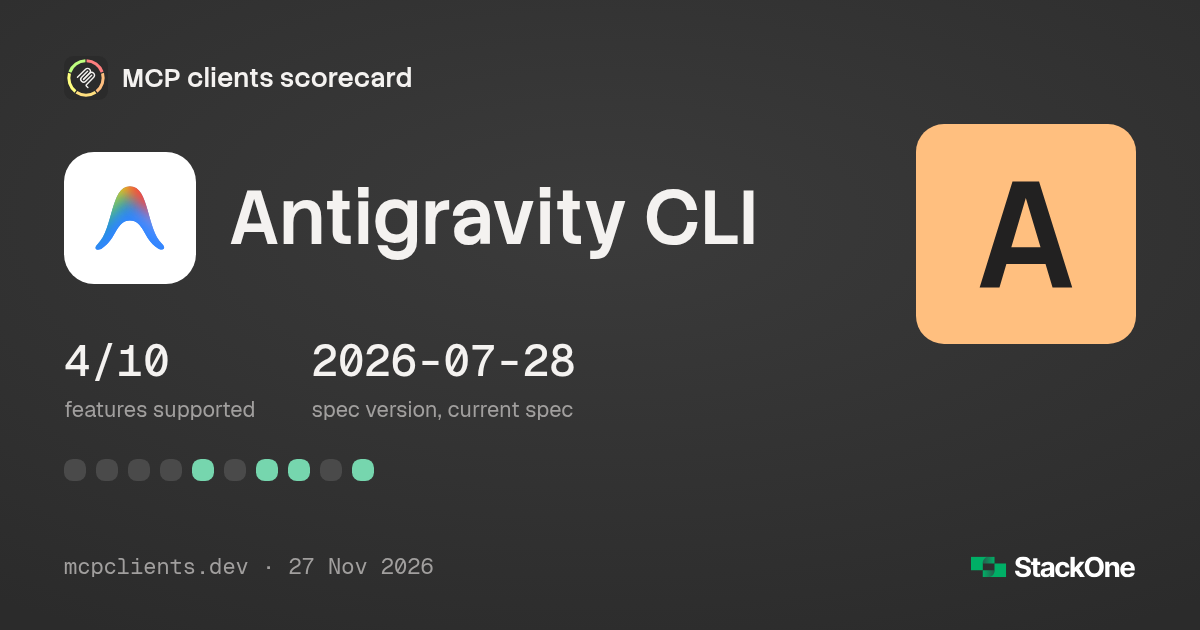
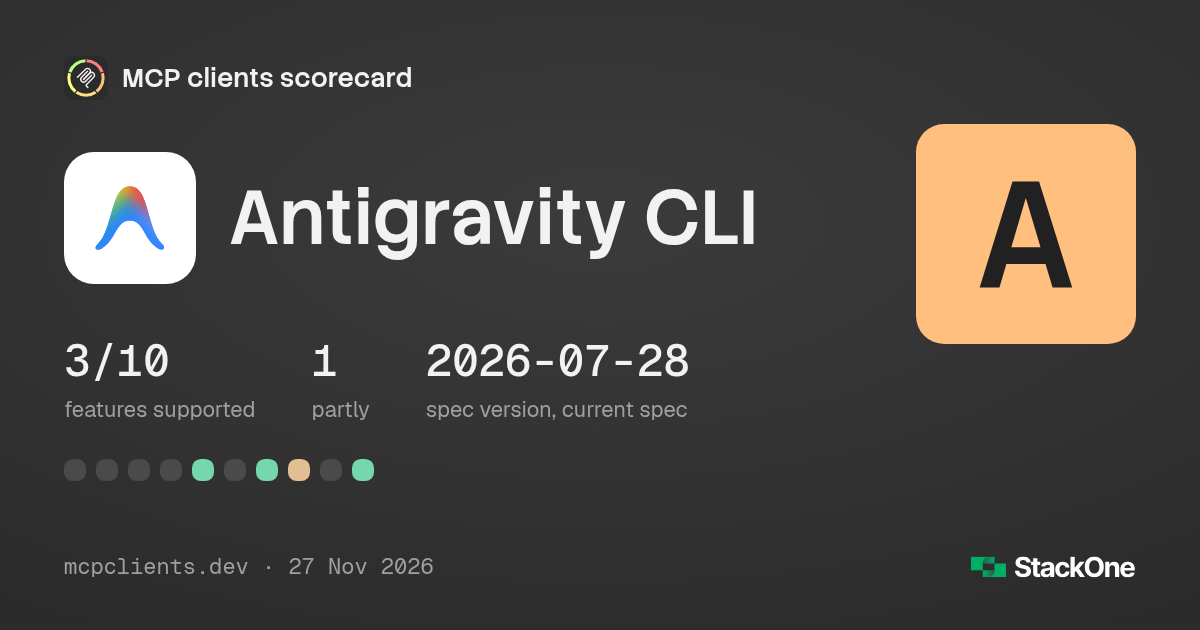
data(antigravity-cli): live tool lists partial (5 of 11 runs); probe download timeouts; probe docs

diff --git a/README.md b/README.md
@@ -175,9 +175,9 @@ As of 27 Nov 2026. Click any cell for its source, or a client name for the full 
 | **A** | [OpenClaw](EVIDENCE.md#openclaw) [↗](https://openclaw.ai) | `2026.11.7` | [42% of 345](https://github.com/openclaw/openclaw/issues) | [![one version behind](assets/icons/spec-behind.svg) 2025-11-25](https://github.com/openclaw/openclaw/blob/e31bbf056de321127988ec5c1a36ff1b59297de0/src/agents/agent-bundle-mcp-runtime.ts#L357) | [![yes](assets/icons/y.svg)](https://docs.openclaw.ai/cli/mcp/apps) | [![no](assets/icons/n.svg)](https://github.com/openclaw/openclaw/tree/e31bbf056de321127988ec5c1a36ff1b59297de0/src/agents) | [![partial](assets/icons/p.svg)](https://docs.openclaw.ai/automation/mcp-events) | [![no](assets/icons/n.svg)](https://docs.openclaw.ai/cli/mcp) | [![partial](assets/icons/p.svg)](https://github.com/openclaw/openclaw/blob/e31bbf056de321127988ec5c1a36ff1b59297de0/src/agents/mcp-oauth-provider.ts#L167) | [![no](assets/icons/n.svg)](https://github.com/openclaw/openclaw/tree/e31bbf056de321127988ec5c1a36ff1b59297de0/src/agents) | [![partial](assets/icons/p.svg)](https://github.com/openclaw/openclaw/blob/e31bbf056de321127988ec5c1a36ff1b59297de0/src/agents/mcp-metadata.ts#L12) | [![yes](assets/icons/y.svg)](https://github.com/openclaw/openclaw/blob/e31bbf056de321127988ec5c1a36ff1b59297de0/src/agents/agent-bundle-mcp-runtime.ts#L363) | [![partial](assets/icons/p.svg)](https://docs.openclaw.ai/tools/code-mode) | [![yes](assets/icons/y.svg) BM25](https://github.com/openclaw/openclaw/blob/e31bbf056de321127988ec5c1a36ff1b59297de0/src/agents/tool-search-ranking.ts#L371) |
 | **A** | [Copilot CLI](EVIDENCE.md#copilot-cli) [↗](https://github.com/features/copilot) | `1.0.117` | [43% of 157](https://github.com/github/copilot-cli/issues) | [![current spec](assets/icons/spec-current.svg) 2026-07-28](https://github.com/github/copilot-cli/blob/main/changelog.md) | [![not applicable](assets/icons/na.svg)](https://github.com/github/copilot-cli/blob/main/changelog.md) | [![partial](assets/icons/p.svg)](https://github.com/github/copilot-cli/blob/main/changelog.md) | [![no](assets/icons/n.svg)](https://registry.npmjs.org/@github/copilot-linux-x64/1.0.112) | [![no](assets/icons/n.svg)](https://github.com/github/copilot-cli/blob/main/changelog.md) | [![yes](assets/icons/y.svg)](https://github.com/github/copilot-cli/blob/main/changelog.md) | [![no](assets/icons/n.svg)](https://registry.npmjs.org/@github/copilot-linux-x64/1.0.112) | [![yes](assets/icons/y.svg)](https://github.com/github/copilot-cli/blob/main/changelog.md) | [![yes](assets/icons/y.svg)](https://github.com/github/copilot-cli/blob/84ee80ea6490ce02d6000439356a609fcefbb9ae/changelog.md#L454) | [![no](assets/icons/n.svg)](https://github.com/github/copilot-cli/blob/main/changelog.md) | [![yes](assets/icons/y.svg) Hosted](https://registry.npmjs.org/@github/copilot-linux-x64/1.0.112) |
 | **A** | [Amp](EVIDENCE.md#amp) [↗](https://ampcode.com) | `0.0.1795334436-g660843` | no public tracker | [![current spec](assets/icons/spec-current.svg) 2026-07-28 (falls back to 2025-11-25)](https://ampcode.com/docs/customize/mcp) | [![yes](assets/icons/y.svg)](https://ampcode.com/docs/customize/mcp) | [![no](assets/icons/n.svg)](https://ampcode.com/docs/customize/mcp) | [![no](assets/icons/n.svg)](https://ampcode.com/docs/customize/mcp) | [![no](assets/icons/n.svg)](https://ampcode.com/manual) | [![yes](assets/icons/y.svg)](https://ampcode.com/docs/customize/mcp) | [![no](assets/icons/n.svg)](https://ampcode.com/docs/customize/mcp) | [![yes](assets/icons/y.svg)](https://ampcode.com/docs/customize/mcp) | [![no](assets/icons/n.svg)](https://ampcode.com/docs/customize/mcp) | [![partial](assets/icons/p.svg)](https://ampcode.com/docs/customize/mcp) | [![partial](assets/icons/p.svg)](https://ampcode.com/docs/customize/mcp) |
-| **A** | [Antigravity CLI](EVIDENCE.md#antigravity-cli) [↗](https://antigravity.google/product/antigravity-cli) | `1.5.18` | no public tracker | [![current spec](assets/icons/spec-current.svg) 2026-07-28](https://storage.googleapis.com/antigravity-public/antigravity-cli/1.5.18-6386224290725888/linux-x64/cli_linux_x64.tar.gz) | [![not applicable](assets/icons/na.svg)](https://antigravity.google/docs/mcp?tab=cli) | [![no](assets/icons/n.svg)](https://storage.googleapis.com/antigravity-public/antigravity-cli/1.5.18-6386224290725888/linux-x64/cli_linux_x64.tar.gz) | [![no](assets/icons/n.svg)](https://storage.googleapis.com/antigravity-public/antigravity-cli/1.5.18-6386224290725888/linux-x64/cli_linux_x64.tar.gz) | [![no](assets/icons/n.svg)](https://antigravity.google/docs/skills) | [![yes](assets/icons/y.svg)](https://antigravity.google/docs/mcp) | [![no](assets/icons/n.svg)](https://storage.googleapis.com/antigravity-public/antigravity-cli/1.5.18-6386224290725888/linux-x64/cli_linux_x64.tar.gz) | [![yes](assets/icons/y.svg)](https://storage.googleapis.com/antigravity-public/antigravity-cli/1.5.18-6386224290725888/linux-x64/cli_linux_x64.tar.gz) | [![yes](assets/icons/y.svg)](https://storage.googleapis.com/antigravity-public/antigravity-cli/1.5.18-6386224290725888/linux-x64/cli_linux_x64.tar.gz) | [![no](assets/icons/n.svg)](https://antigravity.google/docs/dynamic-workflows) | [![yes](assets/icons/y.svg) Files](https://antigravity.google/docs/cli/mcp) |
 | **A** | [Hermes Agent](EVIDENCE.md#hermes-agent) [↗](https://hermes-agent.nousresearch.com) | `0.23.3` | [29% of 661](https://github.com/NousResearch/hermes-agent/issues) | [![current spec](assets/icons/spec-current.svg) 2026-07-28 (falls back to 2025-11-25)](https://github.com/NousResearch/hermes-agent/blob/caafe5389ae585ef77387a962aee05b1bcf17029/tools/mcp_tool_transport.py#L229) | [![not applicable](assets/icons/na.svg)](https://github.com/NousResearch/hermes-agent/tree/caafe5389ae585ef77387a962aee05b1bcf17029/tools) | [![no](assets/icons/n.svg)](https://github.com/NousResearch/hermes-agent/tree/caafe5389ae585ef77387a962aee05b1bcf17029/tools) | [![partial](assets/icons/p.svg)](https://github.com/NousResearch/hermes-agent/blob/caafe5389ae585ef77387a962aee05b1bcf17029/website/docs/user-guide/features/mcp.md#L1038) | [![no](assets/icons/n.svg)](https://github.com/NousResearch/hermes-agent/pull/137746) | [![yes](assets/icons/y.svg)](https://github.com/NousResearch/hermes-agent/blob/caafe5389ae585ef77387a962aee05b1bcf17029/website/docs/user-guide/features/mcp.md#L354) | [![no](assets/icons/n.svg)](https://github.com/NousResearch/hermes-agent/tree/caafe5389ae585ef77387a962aee05b1bcf17029/tools) | [![partial](assets/icons/p.svg)](https://github.com/NousResearch/hermes-agent/blob/caafe5389ae585ef77387a962aee05b1bcf17029/website/docs/user-guide/features/mcp.md#L1023) | [![yes](assets/icons/y.svg)](https://github.com/NousResearch/hermes-agent/blob/caafe5389ae585ef77387a962aee05b1bcf17029/tools/mcp_tool_health.py#L109) | [![no](assets/icons/n.svg)](https://github.com/NousResearch/hermes-agent/blob/caafe5389ae585ef77387a962aee05b1bcf17029/website/docs/user-guide/features/code-execution.md#L153) | [![yes](assets/icons/y.svg) BM25 search](https://github.com/NousResearch/hermes-agent/blob/caafe5389ae585ef77387a962aee05b1bcf17029/website/docs/user-guide/features/tool-search.md#L133) |
 | **A** | [Pi](EVIDENCE.md#pi) [↗](https://pi.dev) | `1.6.0` | [31% of 107](https://github.com/earendil-works/pi/issues) | [![one version behind](assets/icons/spec-behind.svg) 2025-11-25](https://registry.npmjs.org/@earendil-works/pi-coding-agent/1.4.0) | [![not applicable](assets/icons/na.svg)](https://github.com/earendil-works/pi/blob/4a080252f06caf63a525d7873c5d94d3c23887e0/packages/coding-agent/docs/mcp.md#L246) | [![no](assets/icons/n.svg)](https://registry.npmjs.org/@earendil-works/pi-coding-agent/1.4.0) | [![no](assets/icons/n.svg)](https://github.com/earendil-works/pi/tree/4a080252f06caf63a525d7873c5d94d3c23887e0/packages/mcp/src) | [![no](assets/icons/n.svg)](https://github.com/earendil-works/pi/blob/44b6a1367b6000a458f96fb98b44375606fadf67/packages/mcp/README.md) | [![yes](assets/icons/y.svg)](https://github.com/earendil-works/pi/blob/4a080252f06caf63a525d7873c5d94d3c23887e0/packages/coding-agent/docs/mcp.md#L162) | [![no](assets/icons/n.svg)](https://github.com/earendil-works/pi/tree/4a080252f06caf63a525d7873c5d94d3c23887e0/packages/mcp/src) | [![no](assets/icons/n.svg)](https://registry.npmjs.org/@earendil-works/pi-coding-agent/1.4.0) | [![yes](assets/icons/y.svg)](https://github.com/earendil-works/pi/blob/v1.4.0/packages/coding-agent/src/extensions/mcp/runtime.ts#L380-L382) | [![yes](assets/icons/y.svg)](https://github.com/earendil-works/pi/blob/4a080252f06caf63a525d7873c5d94d3c23887e0/packages/coding-agent/docs/mcp.md#L195) | [![yes](assets/icons/y.svg) BM25](https://github.com/earendil-works/pi/blob/4a080252f06caf63a525d7873c5d94d3c23887e0/packages/coding-agent/src/extensions/tool-search/tool.ts#L118) |
+| **A** | [Antigravity CLI](EVIDENCE.md#antigravity-cli) [↗](https://antigravity.google/product/antigravity-cli) | `1.5.18` | no public tracker | [![current spec](assets/icons/spec-current.svg) 2026-07-28](https://storage.googleapis.com/antigravity-public/antigravity-cli/1.5.18-6386224290725888/linux-x64/cli_linux_x64.tar.gz) | [![not applicable](assets/icons/na.svg)](https://antigravity.google/docs/mcp?tab=cli) | [![no](assets/icons/n.svg)](https://storage.googleapis.com/antigravity-public/antigravity-cli/1.5.18-6386224290725888/linux-x64/cli_linux_x64.tar.gz) | [![no](assets/icons/n.svg)](https://storage.googleapis.com/antigravity-public/antigravity-cli/1.5.18-6386224290725888/linux-x64/cli_linux_x64.tar.gz) | [![no](assets/icons/n.svg)](https://antigravity.google/docs/skills) | [![yes](assets/icons/y.svg)](https://antigravity.google/docs/mcp) | [![no](assets/icons/n.svg)](https://storage.googleapis.com/antigravity-public/antigravity-cli/1.5.18-6386224290725888/linux-x64/cli_linux_x64.tar.gz) | [![yes](assets/icons/y.svg)](https://storage.googleapis.com/antigravity-public/antigravity-cli/1.5.18-6386224290725888/linux-x64/cli_linux_x64.tar.gz) | [![partial](assets/icons/p.svg)](https://storage.googleapis.com/antigravity-public/antigravity-cli/1.5.18-6386224290725888/linux-x64/cli_linux_x64.tar.gz) | [![no](assets/icons/n.svg)](https://antigravity.google/docs/dynamic-workflows) | [![yes](assets/icons/y.svg) Files](https://antigravity.google/docs/cli/mcp) |
 | **A** | [Droid](EVIDENCE.md#droid) [↗](https://factory.com) | `1.21.1` | [too few issues](https://github.com/Factory-AI/factory/issues) | [![one version behind](assets/icons/spec-behind.svg) 2025-11-25](https://registry.npmjs.org/@factory/cli-linux-x64/1.21.1) | [![not applicable](assets/icons/na.svg)](https://registry.npmjs.org/@factory/cli-linux-x64/1.12.1) | [![no](assets/icons/n.svg)](https://registry.npmjs.org/@factory/cli-linux-x64/1.12.1) | [![no](assets/icons/n.svg)](https://registry.npmjs.org/@factory/cli-linux-x64/1.12.1) | [![no](assets/icons/n.svg)](https://docs.factory.ai/cli/configuration/mcp) | [![yes](assets/icons/y.svg)](https://docs.factory.com/harness/mcp) | [![no](assets/icons/n.svg)](https://registry.npmjs.org/@factory/cli-linux-x64/1.12.1) | [![no](assets/icons/n.svg)](https://registry.npmjs.org/@factory/cli-linux-x64/1.12.1) | [![yes](assets/icons/y.svg)](https://registry.npmjs.org/@factory/cli-linux-x64/1.12.1) | [![partial](assets/icons/p.svg)](https://registry.npmjs.org/@factory/cli-linux-x64/1.12.1) | [![yes](assets/icons/y.svg) Keyword](https://registry.npmjs.org/@factory/cli-linux-x64/1.12.1) |
 | **B** | [Grok Build](EVIDENCE.md#grok-build) [↗](https://x.ai/build) | `1.0.77` | no public tracker | [![one version behind](assets/icons/spec-behind.svg) 2025-11-25](https://x.ai/cli/grok-1.0.77-linux-x86_64) | [![not applicable](assets/icons/na.svg)](https://x.ai/cli/grok-1.0.77-linux-x86_64) | [![no](assets/icons/n.svg)](https://x.ai/cli/grok-1.0.77-linux-x86_64) | [![no](assets/icons/n.svg)](https://x.ai/cli/grok-1.0.77-linux-x86_64) | [![no](assets/icons/n.svg)](https://docs.x.ai/build/features/mcp-servers) | [![no](assets/icons/n.svg)](https://docs.x.ai/build/features/mcp-servers) | [![no](assets/icons/n.svg)](https://x.ai/cli/grok-1.0.77-linux-x86_64) | [![yes](assets/icons/y.svg)](https://github.com/xai-org/grok-build/blob/2bdd1d6a6369de0e8c68132ea4539e9abd9e14a8/crates/codegen/xai-grok-shell/changelogs/1.0.8.md) | [![no](assets/icons/n.svg)](https://x.ai/cli/grok-1.0.77-linux-x86_64) | [![no](assets/icons/n.svg)](https://x.ai/cli/grok-1.0.77-linux-x86_64) | [![yes](assets/icons/y.svg) Deferred](https://x.ai/cli/grok-1.0.77-linux-x86_64) |
 | **B** | [opencode](EVIDENCE.md#opencode) [↗](https://opencode.ai) | `1.19.6` | [22% of 386](https://github.com/anomalyco/opencode/issues) | [![one version behind](assets/icons/spec-behind.svg) 2025-11-25](https://github.com/anomalyco/opencode/blob/810c0eba1a7348036f8bdf61e6632d0c36c6876c/packages/opencode/src/mcp/index.ts#L39) | [![not applicable](assets/icons/na.svg)](https://github.com/anomalyco/opencode/blob/810c0eba1a7348036f8bdf61e6632d0c36c6876c/packages/opencode/src/mcp/index.ts#L39) | [![no](assets/icons/n.svg)](https://github.com/anomalyco/opencode/blob/810c0eba1a7348036f8bdf61e6632d0c36c6876c/packages/opencode/src/mcp/index.ts#L47) | [![no](assets/icons/n.svg)](https://github.com/anomalyco/opencode/tree/810c0eba1a7348036f8bdf61e6632d0c36c6876c/packages/opencode/src/mcp) | [![no](assets/icons/n.svg)](https://github.com/anomalyco/opencode/pull/66201) | [![no](assets/icons/n.svg)](https://github.com/anomalyco/opencode/blob/810c0eba1a7348036f8bdf61e6632d0c36c6876c/packages/opencode/src/mcp/index.ts#L301) | [![no](assets/icons/n.svg)](https://github.com/anomalyco/opencode/tree/810c0eba1a7348036f8bdf61e6632d0c36c6876c/packages/opencode/src/mcp) | [![no](assets/icons/n.svg)](https://github.com/anomalyco/opencode/blob/810c0eba1a7348036f8bdf61e6632d0c36c6876c/packages/opencode/src/mcp/index.ts#L44) | [![yes](assets/icons/y.svg)](https://github.com/anomalyco/opencode/blob/v1.19.5/packages/opencode/src/mcp/index.ts#L461-L471) | [![partial](assets/icons/p.svg)](https://github.com/anomalyco/opencode/blob/810c0eba1a7348036f8bdf61e6632d0c36c6876c/packages/opencode/src/effect/runtime-flags.ts#L48) | [![partial](assets/icons/p.svg)](https://github.com/anomalyco/opencode/blob/810c0eba1a7348036f8bdf61e6632d0c36c6876c/packages/codemode/src/tool-runtime.ts#L411) |
@@ -252,7 +252,7 @@ Code mode and Tool search are marked harness: they are how the client handles to
 | CIMD | 16 | 1 | 14 | 0 |
 | ID-JAG | 4 | 1 | 26 | 0 |
 | Elicitation | 10 | 5 | 16 | 0 |
-| Live tool lists | 16 | 2 | 13 | 0 |
+| Live tool lists | 15 | 3 | 13 | 0 |
 | Code mode <sub>harness</sub> | 2 | 8 | 21 | 0 |
 | Tool search <sub>harness</sub> | 18 | 5 | 8 | 0 |
 <!-- features:end -->

diff --git a/EVIDENCE.md b/EVIDENCE.md
@@ -86,26 +86,6 @@ Tier **A** · CLI · version checked `0.0.1795334436-g660843` · MCP bugs fixed:
 | Code mode | [![partial](assets/icons/p.svg)](https://ampcode.com/docs/customize/mcp) | Docs: agents call saved remote MCP tools by **writing code for the `code_exec` tool**, so code mode is partial.<br>• Definitions of the saved remote tools are stored on ampcode.com.<br>• The code imports the server as a module.<br>• Servers in local `amp.mcpServers` use different rules, so this is one of two modes. | docs | 2026-11-22 |  |
 | Tool search | [![partial](assets/icons/p.svg)](https://ampcode.com/docs/customize/mcp) | Docs: `tool_search` lists each saved remote MCP server as a **module** and discovers its tools on demand.<br>• Discovery includes the return types of the tools.<br>• The *Efficient MCP Tool Loading* post (2026-01-08) covers skill-bundled MCP servers that load only when a skill is invoked.<br>• Local `amp.mcpServers` entries are *not* described as deferred.<br>• The docs do not say how `tool_search` ranks results. | docs | 2026-11-22 |  |
 
-## Antigravity CLI
-
-Tier **A** · CLI · version checked `1.5.18` · MCP bugs fixed: no public tracker
-
-[website](https://antigravity.google/product/antigravity-cli) · [docs](https://antigravity.google/docs/cli/mcp) · [data file](data/clients/antigravity-cli.yaml)
-
-| Feature | Value | Evidence | Method | Checked | Shipped |
-| --- | --- | --- | --- | --- | --- |
-| Spec version | [![current spec](assets/icons/spec-current.svg) 2026-07-28](https://storage.googleapis.com/antigravity-public/antigravity-cli/1.5.18-6386224290725888/linux-x64/cli_linux_x64.tar.gz) | Own probe of `agy` 1.5.18: it **opened with `server/discover` on 2026-07-28** and stayed on it.<br>• Ran the linux-x64 build from the installer's manifest (sha512 checked) with a local stdio server in `~/.gemini/config/mcp_config.json`.<br>• The request carried `io.modelcontextprotocol/protocolVersion` 2026-07-28 and `clientInfo` `antigravity-client`.<br>• It connected before sign-in, then sent `tools/list` and `subscriptions/listen` on 2026-07-28.<br>• Docs and changelog name no revision. | probe | 2026-11-27 |  |
-| MCP Apps | [![not applicable](assets/icons/na.svg)](https://antigravity.google/docs/mcp?tab=cli) | Docs: `ui://` views render only in the Antigravity App; **the CLI runs the same tools with their plain-text results**.<br>• The 1.5.18 handshake declared no `io.modelcontextprotocol/ui` extension. | docs | 2026-11-27 |  |
-| Tasks | [![no](assets/icons/n.svg)](https://storage.googleapis.com/antigravity-public/antigravity-cli/1.5.18-6386224290725888/linux-x64/cli_linux_x64.tar.gz) | Own probe of 1.5.18: the handshake declares **no tasks capability or extension**.<br>• Capabilities were only `elicitation` and `roots`.<br>• No `tasks/get` or `io.modelcontextprotocol/tasks` in the binary. | probe | 2026-11-27 |  |
-| Events | [![no](assets/icons/n.svg)](https://storage.googleapis.com/antigravity-public/antigravity-cli/1.5.18-6386224290725888/linux-x64/cli_linux_x64.tar.gz) | Source: **no** `events/subscribe`, `notifications/events` or `io.modelcontextprotocol/events` in the 1.5.18 binary. The docs and changelog do not mention MCP events. | source | 2026-11-27 |  |
-| Skills | [![no](assets/icons/n.svg)](https://antigravity.google/docs/skills) | Docs: skills load from `.agents/skills` folders and plugins, and the docs **do not mention skills served by MCP servers**.<br>• No `skills/list`, `skill://` or `io.modelcontextprotocol/skills` in the 1.5.18 binary. | docs | 2026-11-27 |  |
-| CIMD | [![yes](assets/icons/y.svg)](https://antigravity.google/docs/mcp) | Docs: Antigravity **sends its hosted CIMD URL as `client_id`** when the authorization server advertises `client_id_metadata_document_supported`.<br>• The page covers the App, IDE and CLI, with client resolution order manual `oauth.clientId`, then CIMD, then DCR.<br>• The 1.5.18 binary contains `https://antigravity.google/oauth/client-metadata.json` and `client_id_metadata_document_supported`. | docs | 2026-11-27 |  |
-| ID-JAG | [![no](assets/icons/n.svg)](https://storage.googleapis.com/antigravity-public/antigravity-cli/1.5.18-6386224290725888/linux-x64/cli_linux_x64.tar.gz) | Source: **no** `id-jag` token type in the 1.5.18 binary, and no doc or changelog entry for Cross App Access.<br>• The MCP auth docs list Google ADC, OAuth (manual client, CIMD, DCR) and custom headers. | source | 2026-11-27 |  |
-| Elicitation | [![yes](assets/icons/y.svg)](https://storage.googleapis.com/antigravity-public/antigravity-cli/1.5.18-6386224290725888/linux-x64/cli_linux_x64.tar.gz) | Own probe of 1.5.18: the handshake declares **form and url elicitation**.<br>• `server/discover` carried `elicitation: {form: {}, url: {}}` in `io.modelcontextprotocol/clientCapabilities`.<br>• The binary handles `elicitation/create`. | probe | 2026-11-27 |  |
-| Live tool lists | [![yes](assets/icons/y.svg)](https://storage.googleapis.com/antigravity-public/antigravity-cli/1.5.18-6386224290725888/linux-x64/cli_linux_x64.tar.gz) | Own probe of 1.5.18: after `notifications/tools/list_changed` the CLI **called `tools/list` again** and picked up the new tool.<br>• It opened `subscriptions/listen` with `toolsListChanged: true` every time.<br>• In 4 of 7 runs it re-listed when the notice arrived on that stream and wrote the new tool's schema file, `ping_1.json`, next to `ping.json`.<br>• In the other 3 no re-list followed within 45 to 60 seconds. The probe server sends its notice the moment the stream opens, so these look like a race at subscribe time; a tool added later in a session is the normal case.<br>• The binary is closed source. Google says the CLI [shares the App's agent harness](https://antigravity.google/blog/introducing-google-antigravity-cli), and the App's own probe re-listed on both handshakes. | probe | 2026-11-27 |  |
-| Code mode | [![no](assets/icons/n.svg)](https://antigravity.google/docs/dynamic-workflows) | Docs: the CLI shares the App's agent, whose only scripting feature, Dynamic Workflows, runs Python that **starts agents, not MCP tool calls**.<br>• No `execute_code` or script runner over MCP tools in the 1.5.18 binary. | docs | 2026-11-27 |  |
-| Tool search | [![yes](assets/icons/y.svg) Files](https://antigravity.google/docs/cli/mcp) | Docs: MCP tools are **lazy-loaded by default**; the agent sees tool names and reads each schema from a file, with no search query.<br>• The CLI writes each tool's schema to `~/.gemini/antigravity-cli/mcp/<serverName>/<toolName>.json`.<br>• The agent then calls the tool through the built-in `call_mcp_tool`.<br>• The probe of 1.5.18 wrote `~/.gemini/antigravity-cli/mcp/probe/ping.json`. | docs | 2026-11-27 |  |
-
 ## Hermes Agent
 
 Tier **A** · CLI · version checked `0.23.3` · tracker [NousResearch/hermes-agent](https://github.com/NousResearch/hermes-agent/issues) · MCP bugs fixed: 29% of 661
@@ -147,6 +127,26 @@ Tier **A** · CLI · version checked `1.6.0` · tracker [earendil-works/pi](http
 | Live tool lists | [![yes](assets/icons/y.svg)](https://github.com/earendil-works/pi/blob/v1.4.0/packages/coding-agent/src/extensions/mcp/runtime.ts#L380-L382) | Source: the built-in MCP extension **refreshes tools** when it handles `notifications/tools/list_changed`. It calls `refreshTools`, which calls `listTools` and updates the session active tools. | source | 2026-11-02 |  |
 | Code mode | [![yes](assets/icons/y.svg)](https://github.com/earendil-works/pi/blob/4a080252f06caf63a525d7873c5d94d3c23887e0/packages/coding-agent/docs/mcp.md#L195) | Docs: `docs/mcp.md:195` makes **codemode the default** MCP exposure.<br>• `:204` says Pi activates the `codemode` tool (model-written JavaScript in a QuickJS sandbox) when such a server connects.<br>• The probe listed the server as `codemode`.<br>• Unchanged in v1.5.0 (`mcp.md:197`). | source | 2026-11-06 | [2026-09-29 (0.99.0)](https://github.com/earendil-works/pi/releases/tag/v0.99.0) |
 | Tool search | [![yes](assets/icons/y.svg) BM25](https://github.com/earendil-works/pi/blob/4a080252f06caf63a525d7873c5d94d3c23887e0/packages/coding-agent/src/extensions/tool-search/tool.ts#L118) | Source: Pi ranks tools with **Okapi BM25** (`k1` 1.2, `b` 0.75).<br>• It scores each tool's name, name with underscores as spaces, description, schema property names and descriptions, and namespace name, description and instructions.<br>• Text handling includes camelCase splitting, stop words and naive singular stemming.<br>• Shared by `searchTools()` in codemode and the `tool_search` tool.<br>• Documented as BM25 in `docs/codemode.md:32`. | source | 2026-10-30 | [2026-09-29 (0.99.0)](https://github.com/earendil-works/pi/releases/tag/v0.99.0) |
+
+## Antigravity CLI
+
+Tier **A** · CLI · version checked `1.5.18` · MCP bugs fixed: no public tracker
+
+[website](https://antigravity.google/product/antigravity-cli) · [docs](https://antigravity.google/docs/cli/mcp) · [data file](data/clients/antigravity-cli.yaml)
+
+| Feature | Value | Evidence | Method | Checked | Shipped |
+| --- | --- | --- | --- | --- | --- |
+| Spec version | [![current spec](assets/icons/spec-current.svg) 2026-07-28](https://storage.googleapis.com/antigravity-public/antigravity-cli/1.5.18-6386224290725888/linux-x64/cli_linux_x64.tar.gz) | Own probe of `agy` 1.5.18: it **opened with `server/discover` on 2026-07-28** and stayed on it.<br>• Ran the linux-x64 build from the installer's manifest (sha512 checked) with a local stdio server in `~/.gemini/config/mcp_config.json`.<br>• The request carried `io.modelcontextprotocol/protocolVersion` 2026-07-28 and `clientInfo` `antigravity-client`.<br>• It connected before sign-in, then sent `tools/list` and `subscriptions/listen` on 2026-07-28.<br>• Docs and changelog name no revision. | probe | 2026-11-27 |  |
+| MCP Apps | [![not applicable](assets/icons/na.svg)](https://antigravity.google/docs/mcp?tab=cli) | Docs: `ui://` views render only in the Antigravity App; **the CLI runs the same tools with their plain-text results**.<br>• The 1.5.18 handshake declared no `io.modelcontextprotocol/ui` extension. | docs | 2026-11-27 |  |
+| Tasks | [![no](assets/icons/n.svg)](https://storage.googleapis.com/antigravity-public/antigravity-cli/1.5.18-6386224290725888/linux-x64/cli_linux_x64.tar.gz) | Own probe of 1.5.18: the handshake declares **no tasks capability or extension**.<br>• Capabilities were only `elicitation` and `roots`.<br>• No `tasks/get` or `io.modelcontextprotocol/tasks` in the binary. | probe | 2026-11-27 |  |
+| Events | [![no](assets/icons/n.svg)](https://storage.googleapis.com/antigravity-public/antigravity-cli/1.5.18-6386224290725888/linux-x64/cli_linux_x64.tar.gz) | Source: **no** `events/subscribe`, `notifications/events` or `io.modelcontextprotocol/events` in the 1.5.18 binary. The docs and changelog do not mention MCP events. | source | 2026-11-27 |  |
+| Skills | [![no](assets/icons/n.svg)](https://antigravity.google/docs/skills) | Docs: skills load from `.agents/skills` folders and plugins, and the docs **do not mention skills served by MCP servers**.<br>• No `skills/list`, `skill://` or `io.modelcontextprotocol/skills` in the 1.5.18 binary. | docs | 2026-11-27 |  |
+| CIMD | [![yes](assets/icons/y.svg)](https://antigravity.google/docs/mcp) | Docs: Antigravity **sends its hosted CIMD URL as `client_id`** when the authorization server advertises `client_id_metadata_document_supported`.<br>• The page covers the App, IDE and CLI, with client resolution order manual `oauth.clientId`, then CIMD, then DCR.<br>• The 1.5.18 binary contains `https://antigravity.google/oauth/client-metadata.json` and `client_id_metadata_document_supported`. | docs | 2026-11-27 |  |
+| ID-JAG | [![no](assets/icons/n.svg)](https://storage.googleapis.com/antigravity-public/antigravity-cli/1.5.18-6386224290725888/linux-x64/cli_linux_x64.tar.gz) | Source: **no** `id-jag` token type in the 1.5.18 binary, and no doc or changelog entry for Cross App Access.<br>• The MCP auth docs list Google ADC, OAuth (manual client, CIMD, DCR) and custom headers. | source | 2026-11-27 |  |
+| Elicitation | [![yes](assets/icons/y.svg)](https://storage.googleapis.com/antigravity-public/antigravity-cli/1.5.18-6386224290725888/linux-x64/cli_linux_x64.tar.gz) | Own probe of 1.5.18: the handshake declares **form and url elicitation**.<br>• `server/discover` carried `elicitation: {form: {}, url: {}}` in `io.modelcontextprotocol/clientCapabilities`.<br>• The binary handles `elicitation/create`. | probe | 2026-11-27 |  |
+| Live tool lists | [![partial](assets/icons/p.svg)](https://storage.googleapis.com/antigravity-public/antigravity-cli/1.5.18-6386224290725888/linux-x64/cli_linux_x64.tar.gz) | Own probe of 1.5.18: the CLI subscribes to tool changes, but it **re-listed after the notice in only 5 of 11 runs**.<br>• It opened `subscriptions/listen` with `toolsListChanged: true` every time.<br>• When it re-listed, it wrote the new tool's schema file, `ping_1.json`, next to `ping.json`.<br>• In the other 6 no `tools/list` followed within 30 to 60 seconds, including 3 of 4 runs where the tool was added 8 seconds after subscribing.<br>• The binary is closed source, so the cause is not known. The Antigravity App's probe re-listed every time. | probe | 2026-11-27 |  |
+| Code mode | [![no](assets/icons/n.svg)](https://antigravity.google/docs/dynamic-workflows) | Docs: the CLI shares the App's agent, whose only scripting feature, Dynamic Workflows, runs Python that **starts agents, not MCP tool calls**.<br>• No `execute_code` or script runner over MCP tools in the 1.5.18 binary. | docs | 2026-11-27 |  |
+| Tool search | [![yes](assets/icons/y.svg) Files](https://antigravity.google/docs/cli/mcp) | Docs: MCP tools are **lazy-loaded by default**; the agent sees tool names and reads each schema from a file, with no search query.<br>• The CLI writes each tool's schema to `~/.gemini/antigravity-cli/mcp/<serverName>/<toolName>.json`.<br>• The agent then calls the tool through the built-in `call_mcp_tool`.<br>• The probe of 1.5.18 wrote `~/.gemini/antigravity-cli/mcp/probe/ping.json`. | docs | 2026-11-27 |  |
 
 ## Droid
 

diff --git a/methodology/PROBE.md b/methodology/PROBE.md
@@ -13,7 +13,7 @@ The probe checks which protocol version a CLI really sends, and which capabiliti
 | Codex | `@openai/codex` | `codex exec` with the server set through `-c` |
 | opencode | `opencode-ai` | `opencode mcp list` |
 | Droid | `@factory/cli` | `droid mcp add`, then `droid exec` |
-| Antigravity CLI | not on npm: the build named in its installer manifest, sha512 checked | `agy -p` with the server in `~/.gemini/config/mcp_config.json`; it connects before sign-in |
+| Antigravity CLI | not on npm: the build named in its installer manifest, sha512 checked | `antigravity -p` (the binary the `agy` installer names) with the server in `~/.gemini/config/mcp_config.json`; it connects before sign-in |
 
 [probe/report.mjs](../probe/report.mjs) turns the log into `probe/results.json`: per package, the installed version, the versions it asked for, and the version the server agreed. On the `initialize` path, a client that asks for a version the probe server does not support, then sends `notifications/initialized` on the older version the server offers, is recorded under `accepted_downgrade`: use the version it asked for, not the one it accepted. A `server/discover` client sends its version on every later request, so a switch to an older version shows up in its requested list instead. It exits 1 when no client completed a handshake.
 
@@ -45,9 +45,9 @@ Some clients send the handshake before they check credentials. Others need a sig
 ## Limits
 
 - Only the CLIs in the table are probed: the ones on npm, plus Antigravity CLI from its installer manifest (linux x64 only). Pi, Continue and the apps and IDEs are checked from source and docs.
-- Antigravity CLI is a closed binary, so it runs with an empty environment (only `PATH` and `HOME`). If its download or checksum fails, the other clients still run and it is left out of the results.
+- Antigravity CLI is a closed binary, so it runs with an empty environment (only `PATH` and `HOME`). If its download or checksum fails, the other clients still run, and its entry in the results has no version and `connected: false`.
 - The probe sees the handshake. It does not exercise tasks, elicitation or other features, which are checked from source, docs and changelogs.
 - opencode is started with `mcp list`, which connects with a minimal client. Its declared capabilities may differ from a real chat session, so treat an empty `declares` there as unconfirmed.
-- Antigravity CLI connects its MCP servers before it asks to sign in, then waits for a login the probe never completes. Its `tools/list` re-list after the change notice did not show in every run (4 of 7 on 2026-11-27), so read a `relisted: false` there as unconfirmed.
+- Antigravity CLI connects its MCP servers before it asks to sign in, then waits for a login the probe never completes. It re-listed tools after the change notice in only 5 of 11 runs on 2026-11-27, so a single run says little either way.
 - A CLI that stops at sign-in after the handshake (Claude Code, Droid) still shows what it declared, but later requests, such as a tool call, are not seen.
 - A short run can end before the client relists, and `mcp list` lists tools once and exits, so `relisted: false` is unconfirmed rather than a no. A `relisted: true` shows the client fetched the list again, not that the model saw the new tool: a client that lists tools before every turn also passes, so check it against the client's source before you grade the cell.

diff --git a/CONTRIBUTING.md b/CONTRIBUTING.md
@@ -62,7 +62,7 @@ If you build an MCP client, you can list it yourself.
 
 1. Copy [data/clients/_template.yaml](data/clients/_template.yaml) to `data/clients/<slug>.yaml`, where the slug is the client name in lower case with hyphens (`Claude Code` becomes `claude-code`). The build skips files that start with `_`, so the template itself never shows up in the table.
 2. Add a square logo (SVG preferred) to [assets/logos/](assets/logos/) and set `logo`.
-3. Fill in all eleven cells with sources. A feature you do not support is `n` with a link to your MCP docs. A terminal CLI that cannot render a UI marks MCP Apps `na`. For CLIs on npm, set `npm` so the weekly probe checks the handshake; a CLI outside npm needs its own install step in `probe/run.sh`.
+3. Fill in all eleven cells with sources. A feature you do not support is `n` with a link to your MCP docs. A terminal CLI that cannot render a UI marks MCP Apps `na`. For CLIs on npm, set `npm` so the weekly probe checks the handshake; a CLI outside npm needs an install step and a launch block in `probe/run.sh` and an entry in `pkgs` in `probe/report.mjs` (Antigravity CLI is the example).
 4. Run `npm run build`. If `tier` does not match what [the rubric](methodology/RUBRIC.md) gives, the build prints the expected tier: set it to that.
 5. Open a pull request and say in the Affiliation section that you work on the client.
 
